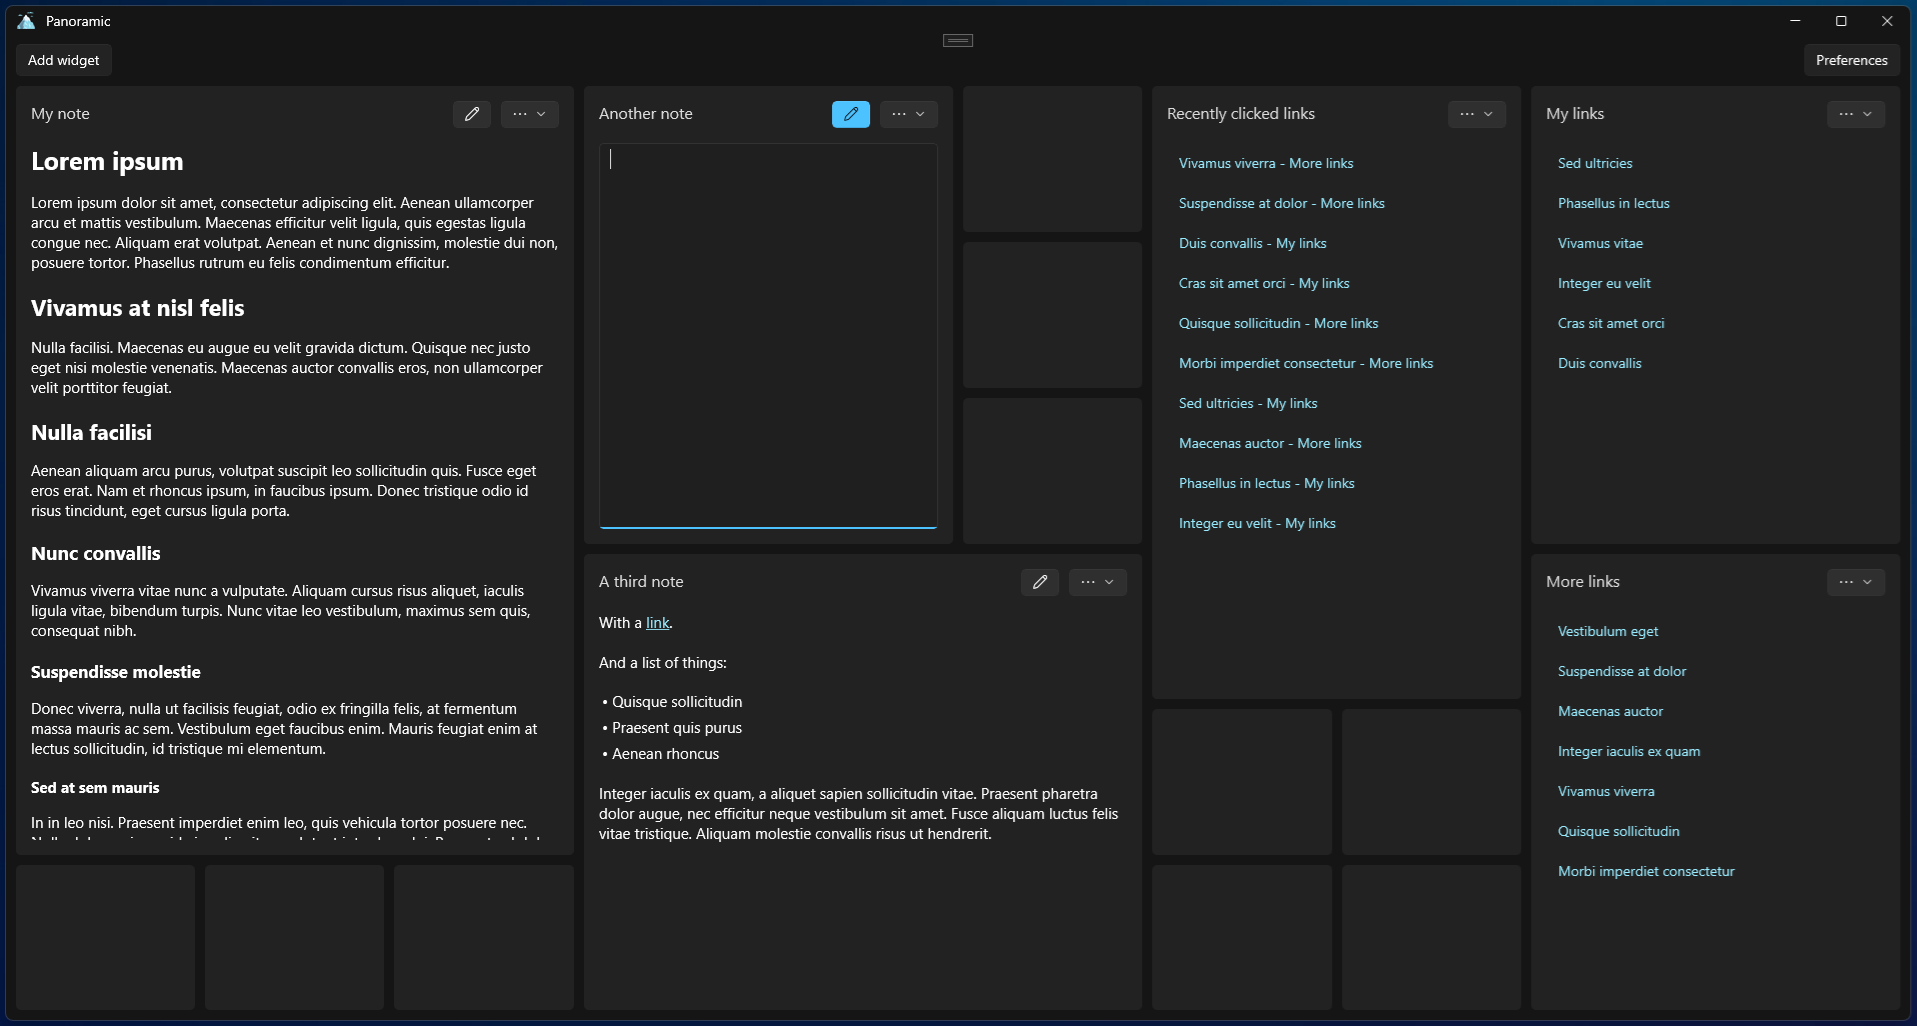
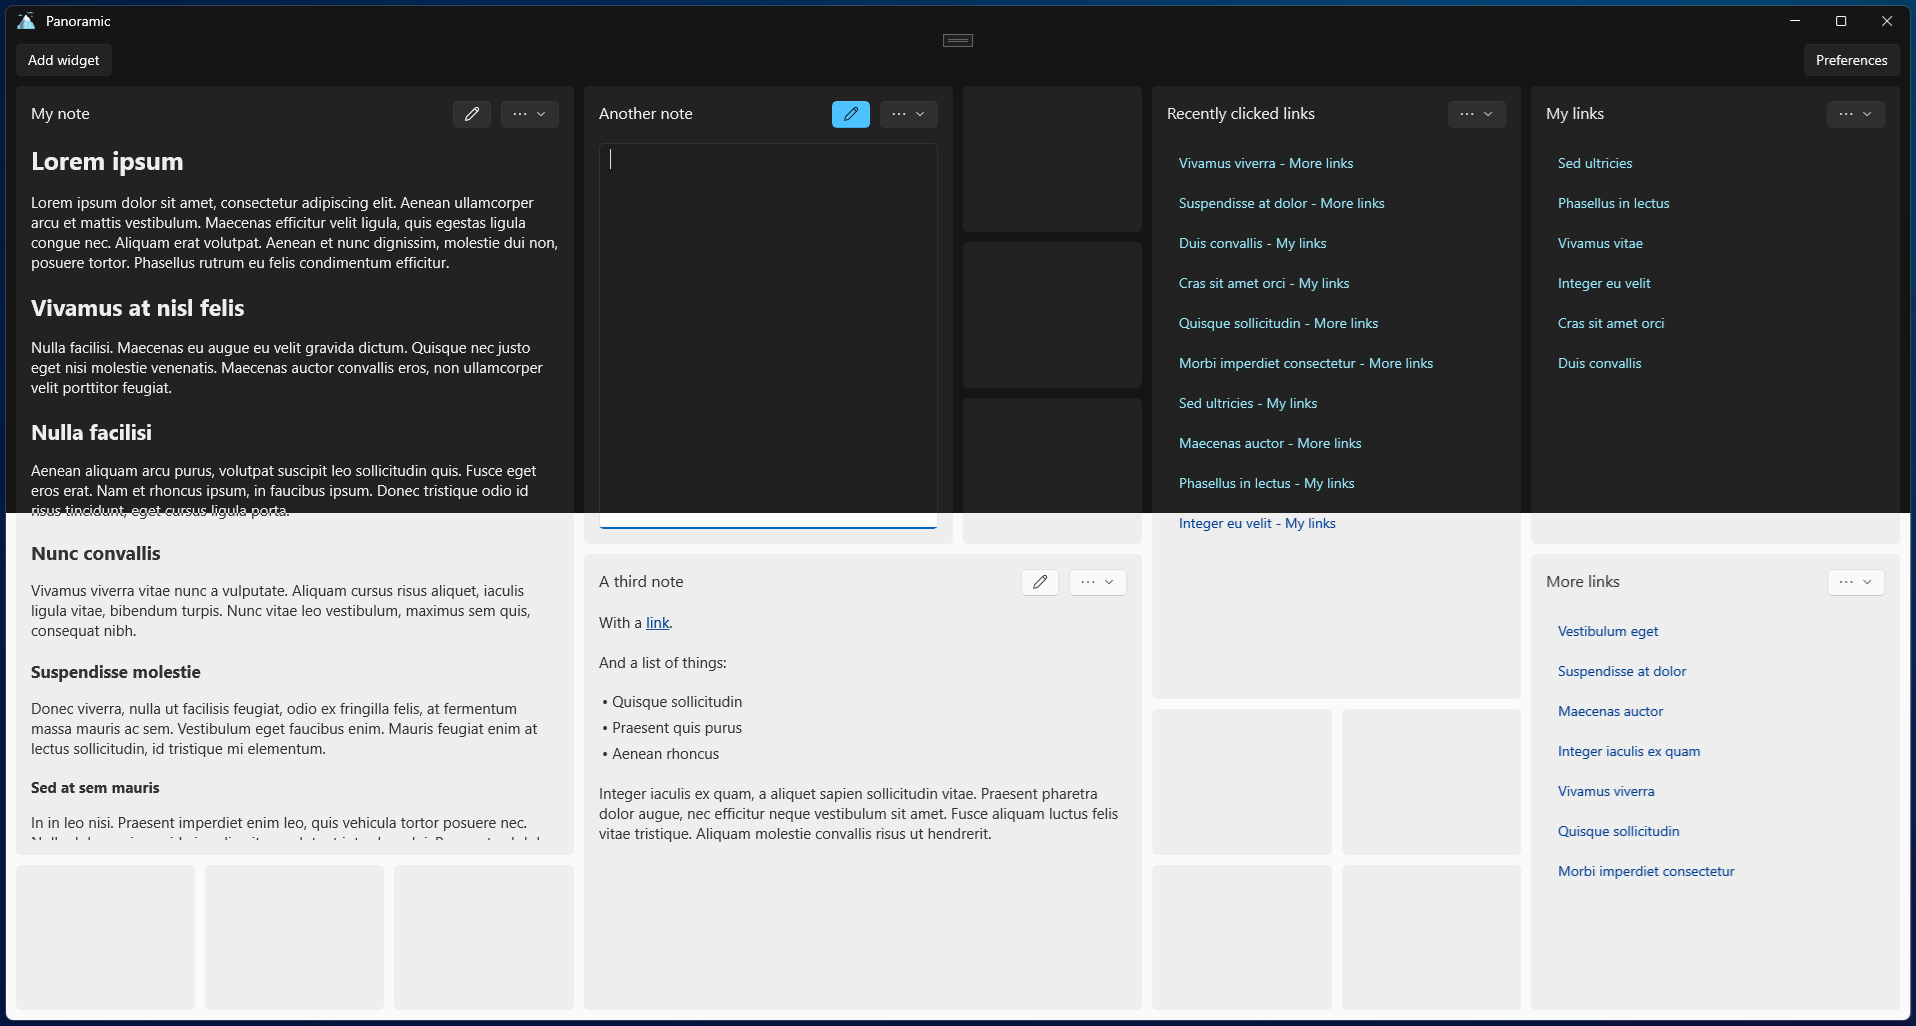
UX improvements. Update README.

diff --git a/src/Panoramic/App.xaml b/src/Panoramic/App.xaml
@@ -13,10 +13,10 @@
 
             <ResourceDictionary.ThemeDictionaries>
                 <ResourceDictionary x:Key="Light">
-                    <SolidColorBrush x:Key="PanoramicMainWindowBackgroundBrush" Color="#eee" />
+                    <SolidColorBrush x:Key="PanoramicMainWindowBackgroundBrush" Color="#fafafa" />
                     
-                    <SolidColorBrush x:Key="PanoramicWidgetBackgroundBrush" Color="#e3e3e3" />
-                    <SolidColorBrush x:Key="PanoramicWidgetHighlightedBackgroundBrush" Color="#c3d3e3" />
+                    <SolidColorBrush x:Key="PanoramicWidgetBackgroundBrush" Color="#eee" />
+                    <SolidColorBrush x:Key="PanoramicWidgetHighlightedBackgroundBrush" Color="#d3e3f3" />
 
                     <SolidColorBrush x:Key="PanoramicWidgetForegroundBrush" Color="#333" />
 
@@ -30,7 +30,7 @@
                     <SolidColorBrush x:Key="PanoramicWidgetBackgroundBrush" Color="#222" />
                     <SolidColorBrush x:Key="PanoramicWidgetHighlightedBackgroundBrush" Color="#234" />
 
-                    <SolidColorBrush x:Key="PanoramicWidgetForegroundBrush" Color="#ddd" />
+                    <SolidColorBrush x:Key="PanoramicWidgetForegroundBrush" Color="#eee" />
 
                     <SolidColorBrush x:Key="PanoramicBlueForeground" Color="#8DD7E9" />
                     <SolidColorBrush x:Key="PanoramicPaleTextForeground" Color="#aaa" />

diff --git a/src/Panoramic/Pages/Widgets/Note/NoteWidgetPage.xaml b/src/Panoramic/Pages/Widgets/Note/NoteWidgetPage.xaml
@@ -132,13 +132,15 @@
                                      Visibility="{x:Bind ViewModel.EditorVisibility, Mode=OneWay}"
                                      FontFamily="{x:Bind ViewModel.FontFamily, Mode=OneWay}"
                                      FontSize="{x:Bind ViewModel.FontSize, Mode=OneWay}"
+                                     Foreground="{StaticResource PanoramicWidgetForegroundBrush}"
                                      AcceptsReturn="True"
                                      TextWrapping="Wrap" />
                             <RichTextBlock Grid.Row="0"
                                            Grid.Column="0"
                                            x:Name="Presenter"
                                            Visibility="{x:Bind ViewModel.PresenterVisibility, Mode=OneWay}"
-                                           FontFamily="{x:Bind ViewModel.FontFamily, Mode=OneWay}" />
+                                           FontFamily="{x:Bind ViewModel.FontFamily, Mode=OneWay}"
+                                           Foreground="{StaticResource PanoramicWidgetForegroundBrush}" />
                         </Grid>
                     </ScrollView>
 

diff --git a/README.md b/README.md
@@ -4,6 +4,20 @@ A productivity app that revolves around a high-level view of notes and links.
 
 ![Preview](design/preview.webp)
 
+## Features
+
+Organized as a grid system, it allows you to add widgets in a layout that you prefer.
+
+Currently supports 3 types of widgets:
+
+- Note - textual widget that supports simplified markup
+- Link collection - a collection of links ordered to your preference
+- Recent links - links that were recently clicked within the app
+
+## Storage
+
+All of the data is stored in JSON and markdown files in the Documents folder (or another of your preference).
+
 ## License
 
 This project is licensed under the GNU GPLv3 License - see the [LICENSE](LICENSE) file for details.
